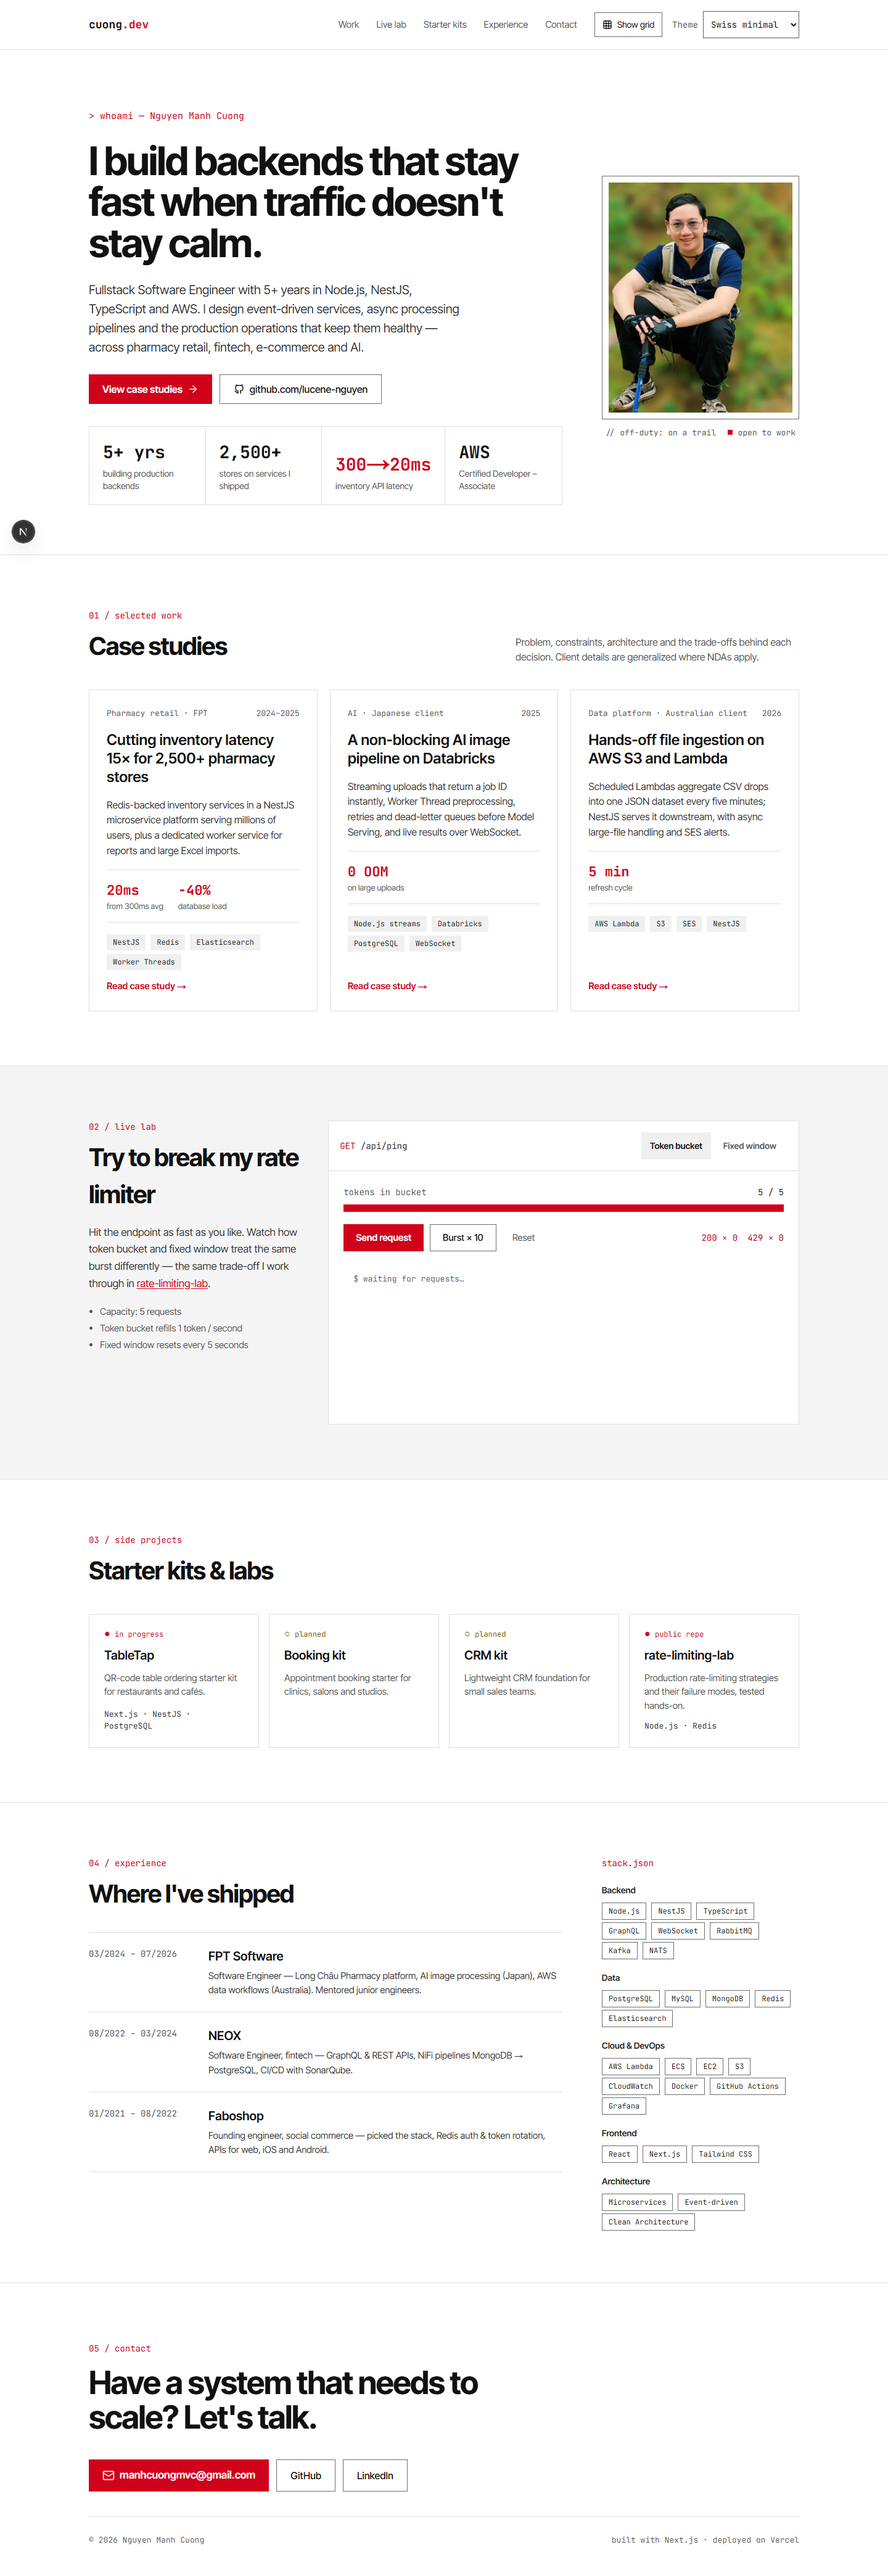
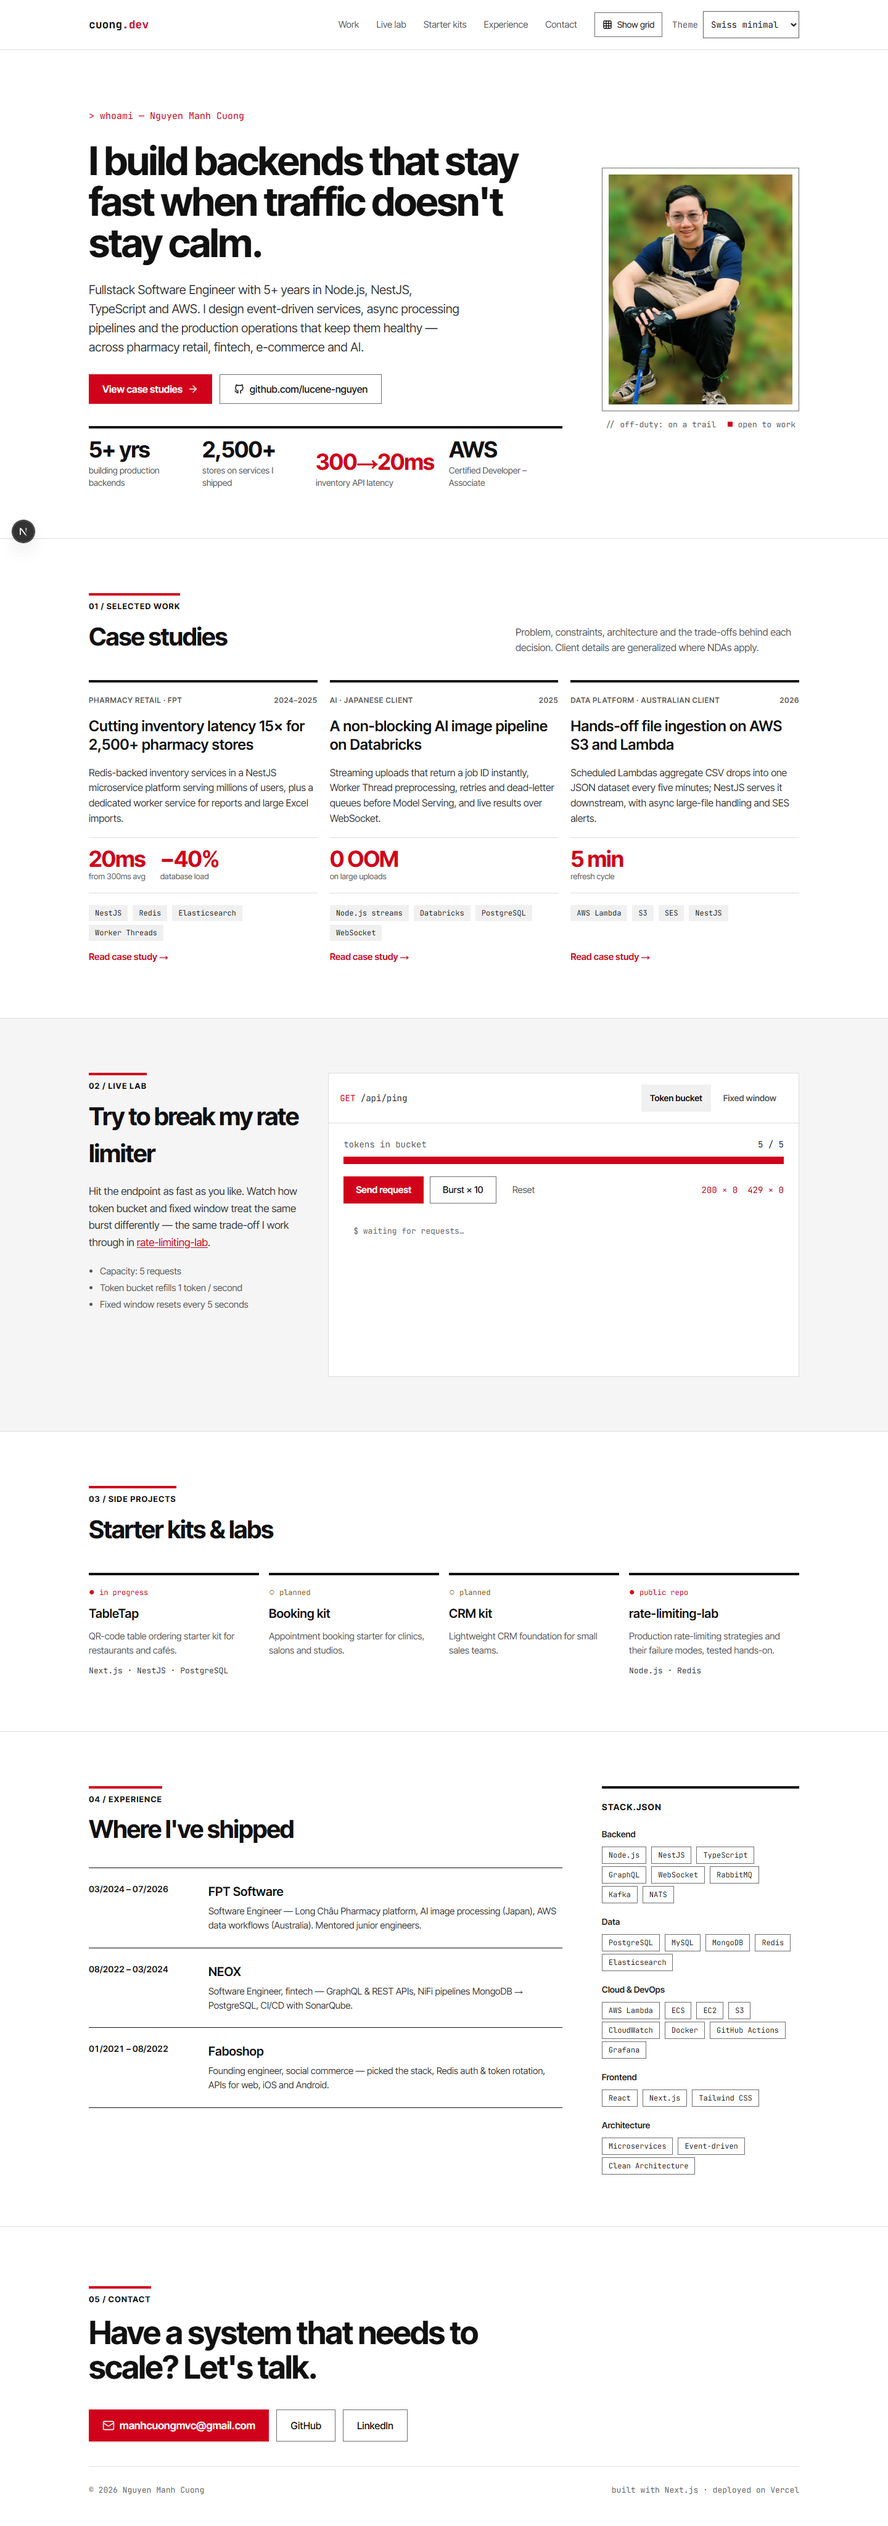
feat(ui): swiss-minimal restyle - rules instead of boxes, tracked uppercase labels, big tight numerals; layout rules; screenshots

diff --git a/themes/swiss-minimal/swiss.css b/themes/swiss-minimal/swiss.css
@@ -32,6 +32,81 @@
   }
 }
 
+/* Shared sections (design-system/portfolio-v3/pages/swiss-minimal.md › Layout).
+   Typographic style: rules instead of boxes, flush left, big tight numerals. Print rules above win (!important). */
+[data-theme="swiss-minimal"] [data-part="eyebrow"] {
+  width: fit-content;
+  padding-top: 8px;
+  border-top: 4px solid var(--accent);
+  font-family: var(--font-sans);
+  font-size: 13px;
+  font-weight: 700;
+  letter-spacing: 0.08em;
+  text-transform: uppercase;
+  color: var(--text);
+}
+
+/* Case studies and kits: no box, a heavy black rule on top. */
+[data-theme="swiss-minimal"] :is([data-part="case-card"], [data-part="kit"] > *) {
+  padding: 20px 0 0;
+  border: 0;
+  border-top: 4px solid var(--text);
+  background: transparent;
+}
+[data-theme="swiss-minimal"] [data-part="case-meta"] {
+  font-family: var(--font-sans);
+  font-size: 12px;
+  font-weight: 600;
+  letter-spacing: 0.06em;
+  text-transform: uppercase;
+}
+[data-theme="swiss-minimal"] [data-part="case-metrics"] dd {
+  font-family: var(--font-sans);
+  font-size: 36px;
+  letter-spacing: -0.03em;
+  line-height: 1.05;
+}
+
+/* Hero numbers: a row of big numerals under one heavy rule. */
+[data-theme="swiss-minimal"] [data-part="stats"] {
+  border: 0;
+  border-top: 4px solid var(--text);
+  overflow: visible;
+}
+[data-theme="swiss-minimal"] [data-part="stat"] {
+  padding: 16px 24px 0 0;
+  border: 0;
+}
+[data-theme="swiss-minimal"] [data-part="stat"] dd {
+  font-family: var(--font-sans);
+  font-size: 36px;
+  letter-spacing: -0.03em;
+  line-height: 1.05;
+}
+
+/* Experience: hairline rows, period in tabular sans; the stack under a heavy rule. */
+[data-theme="swiss-minimal"] [data-part="role"] {
+  border-color: var(--text);
+}
+[data-theme="swiss-minimal"] [data-part="role"] > span:first-child {
+  font-family: var(--font-sans);
+  font-variant-numeric: tabular-nums;
+  font-weight: 600;
+  color: var(--text);
+}
+[data-theme="swiss-minimal"] [data-part="stack"] {
+  align-self: flex-start;
+  padding-top: 20px;
+  border-top: 4px solid var(--text);
+}
+[data-theme="swiss-minimal"] [data-part="stack"] h3 {
+  font-family: var(--font-sans);
+  font-weight: 700;
+  letter-spacing: 0.08em;
+  text-transform: uppercase;
+  color: var(--text);
+}
+
 /* One-page CV: home page only (it owns #theme-slot-home). */
 @media print {
   /* Named page: these margins never apply to other themes or pages. */

diff --git a/e2e/swiss.spec.ts b/e2e/swiss.spec.ts
@@ -91,3 +91,22 @@ test("print CV styles apply without JS", async ({ page }) => {
   await expect(page.locator("header").first()).toBeHidden();
   await expect(page.locator("#lab")).toBeHidden();
 });
+
+test("shared sections are restyled typographically", async ({ page }) => {
+  await page.goto("/?theme=swiss-minimal");
+  const eyebrow = page.locator('#work [data-part="eyebrow"]');
+  await expect(eyebrow).toHaveCSS("text-transform", "uppercase");
+  await expect(eyebrow).toHaveCSS("border-top-color", "rgb(208, 2, 27)");
+  const card = page.locator('#work [data-part="case-card"]').first();
+  await expect(card).toHaveCSS("border-top-width", "4px");
+  await expect(card).toHaveCSS("border-left-width", "0px");
+  await expect(card).toHaveCSS("background-color", "rgba(0, 0, 0, 0)");
+  await expect(page.locator('[data-part="kit"] > *').first()).toHaveCSS("border-top-width", "4px");
+  await expect(page.locator('[data-part="stats"]')).toHaveCSS("border-left-width", "0px");
+  await expect(page.locator('[data-part="stat"] dd').first()).toHaveCSS("font-size", "36px");
+  await expect(page.locator('[data-part="stat"] dd').first()).toHaveCSS(
+    "font-family",
+    /Inter Tight/,
+  );
+  await expect(page.locator('[data-part="stack"]')).toHaveCSS("border-top-width", "4px");
+});

diff --git a/e2e/checklist.spec.ts b/e2e/checklist.spec.ts
@@ -15,6 +15,7 @@ const THEMES = [
   "neo-brutalism",
   "anime",
   "3d-world",
+  "swiss-minimal",
 ];
 
 const overflow = (page: Page) =>

diff --git a/design-system/portfolio-v3/pages/swiss-minimal.md b/design-system/portfolio-v3/pages/swiss-minimal.md
@@ -39,3 +39,17 @@
 ## Print (one-page CV)
 - `@media print`: no nav, skip link, lab, kits, avatar, buttons, selects or dialogs; elements marked `data-print="hide"` are dropped (CTAs, card summaries, tags, card links, contact headline).
 - Black on white, 9–9.5pt body; case studies in 3 columns; experience and stack side by side; contact links print their URL; placeholders are not printed. Fits one A4 or Letter page (12mm margins).
+
+## Layout
+Shared sections (UI round 1). Searches:
+- `"minimal portfolio typography" --domain landing` verified Minimal Single Column and Portfolio Grid: neutral ground, minimal accent, the work first. The section order is unchanged.
+- `"swiss grid typography" --domain style` verified **Minimalism & Swiss Style**: grid-based, high contrast, sans-serif, clear type hierarchy and no shadows. Its "subtle hover 200–250ms" is not applied, because nothing new animates.
+- ux `"grid alignment whitespace"`: Font Size Scale and Hover States are kept (the shared components already handle hover). Breadcrumbs were ignored as off-topic.
+
+Rules:
+- No boxes on the shared sections. Case studies, kits and the stack sit under a heavy 4px black top rule with no border or background, aligned flush left to the 12-column grid.
+- Eyebrows are uppercase sans at 13px/700 with 0.08em tracking, set in text colour under a 4px red accent bar.
+- Case-study meta lines are uppercase tracked sans at 12px.
+- Numbers (case metrics and hero stats) are 36px sans with −0.03em tracking. The hero stats are one row of numerals under a single heavy rule, with no box or dividers.
+- Experience: rows with black hairlines, and the period in tabular sans. The stack heading is uppercase tracked.
+- Print (one-page CV) keeps its own `!important` rules, so these screen rules never change the CV.
